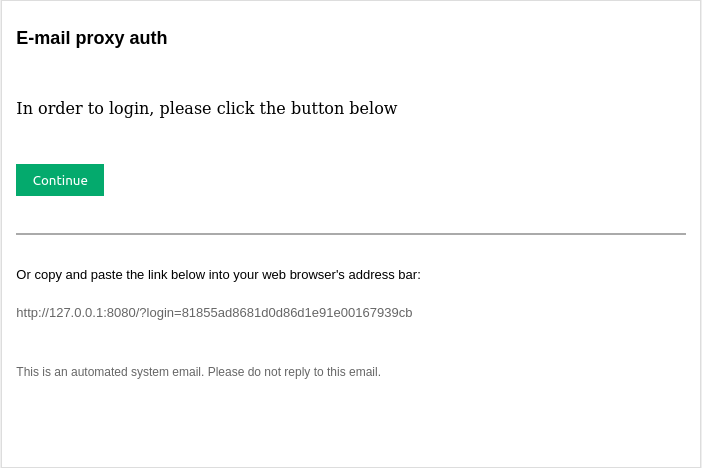
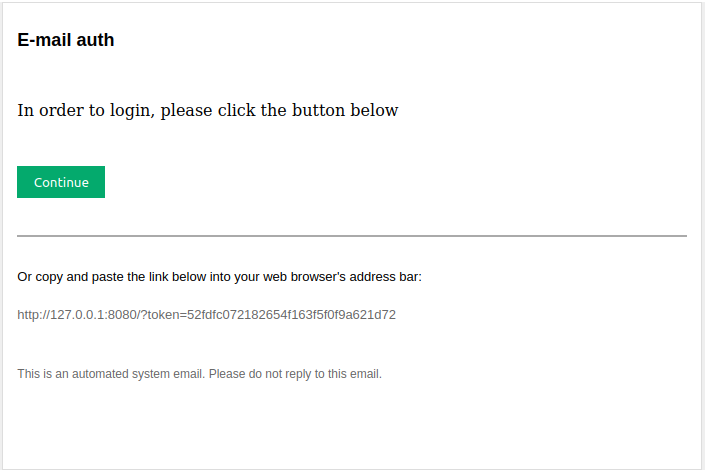
rename to email-auth.

diff --git a/cmd/root.go b/cmd/root.go
@@ -18,16 +18,16 @@ import (
 )
 
 // Default configuration path
-const defCfgPath = "/etc/email-proxy-auth/"
+const defCfgPath = "/etc/github.com/m1k1o/email-auth/"
 
 // ENV prefix for configuration
 const envPrefix = "CFG"
 
 var rootCmd = &cobra.Command{
-	Use:     "email-proxy-auth",
-	Short:   "Proxy authentication using email.",
-	Long:    `Proxy authentication using email.`,
-	Version: "0.0.1",
+	Use:     "email-auth",
+	Short:   "Authentication using email.",
+	Long:    `Authentication using email.`,
+	Version: "1.0.0",
 }
 
 var onInitialize []func()

diff --git a/internal/mail/email.go b/internal/mail/email.go
@@ -9,7 +9,7 @@ import (
 
 	"gopkg.in/mail.v2"
 
-	"email-proxy-auth/internal/config"
+	"github.com/m1k1o/email-auth/internal/config"
 )
 
 type Manager struct {
@@ -107,7 +107,7 @@ func Test(config config.Email, toEmail string) error {
 	m.SetHeader("To", toEmail)
 
 	// Set email subject
-	m.SetHeader("Subject", "Test email from email proxy auth")
+	m.SetHeader("Subject", "Test email from email-auth")
 
 	// Set email body
 	m.SetBody("text/plain", "If you see this in your inbox, that means the test was successful.")

diff --git a/internal/serve.go b/internal/serve.go
@@ -11,10 +11,10 @@ import (
 	"github.com/rs/zerolog"
 	"github.com/rs/zerolog/log"
 
-	"email-proxy-auth/internal/auth"
-	"email-proxy-auth/internal/config"
-	"email-proxy-auth/internal/mail"
-	"email-proxy-auth/internal/page"
+	"github.com/m1k1o/email-auth/internal/auth"
+	"github.com/m1k1o/email-auth/internal/config"
+	"github.com/m1k1o/email-auth/internal/mail"
+	"github.com/m1k1o/email-auth/internal/page"
 )
 
 type serve struct {

diff --git a/internal/config/config.go b/internal/config/config.go
@@ -70,7 +70,7 @@ func (c *App) CreateUrl(token, redirectTo string) (string, error) {
 }
 
 func (App) Init(cmd *cobra.Command) error {
-	cmd.PersistentFlags().String("app.name", "E-mail proxy auth", "Application Name.")
+	cmd.PersistentFlags().String("app.name", "E-mail auth", "Application Name.")
 	if err := viper.BindPFlag("app.name", cmd.PersistentFlags().Lookup("app.name")); err != nil {
 		return err
 	}

diff --git a/cmd/test.go b/cmd/test.go
@@ -4,8 +4,8 @@ import (
 	"github.com/rs/zerolog/log"
 	"github.com/spf13/cobra"
 
-	"email-proxy-auth/internal/config"
-	"email-proxy-auth/internal/mail"
+	"github.com/m1k1o/email-auth/internal/config"
+	"github.com/m1k1o/email-auth/internal/mail"
 )
 
 func init() {

diff --git a/cmd/serve.go b/cmd/serve.go
@@ -4,8 +4,8 @@ import (
 	"github.com/rs/zerolog/log"
 	"github.com/spf13/cobra"
 
-	"email-proxy-auth/internal"
-	"email-proxy-auth/internal/config"
+	"github.com/m1k1o/email-auth/internal"
+	"github.com/m1k1o/email-auth/internal/config"
 )
 
 func init() {

diff --git a/internal/auth/store_object.go b/internal/auth/store_object.go
@@ -1,9 +1,10 @@
 package auth
 
 import (
-	"email-proxy-auth/internal/config"
 	"sync"
 	"time"
+
+	"github.com/m1k1o/email-auth/internal/config"
 )
 
 type storeObject struct {

diff --git a/internal/auth/store_redis.go b/internal/auth/store_redis.go
@@ -7,7 +7,7 @@ import (
 
 	"github.com/go-redis/redis/v8"
 
-	"email-proxy-auth/internal/config"
+	"github.com/m1k1o/email-auth/internal/config"
 )
 
 type storeRedis struct {

diff --git a/internal/page/page.go b/internal/page/page.go
@@ -5,7 +5,7 @@ import (
 	"io/ioutil"
 	"net/http"
 
-	"email-proxy-auth/internal/config"
+	"github.com/m1k1o/email-auth/internal/config"
 
 	"github.com/rs/zerolog/log"
 )

diff --git a/internal/auth/store.go b/internal/auth/store.go
@@ -5,7 +5,7 @@ import (
 
 	"github.com/rs/zerolog/log"
 
-	"email-proxy-auth/internal/config"
+	"github.com/m1k1o/email-auth/internal/config"
 )
 
 var (

diff --git a/main.go b/main.go
@@ -1,6 +1,6 @@
 package main
 
-import "email-proxy-auth/cmd"
+import "github.com/m1k1o/email-auth/cmd"
 
 func main() {
 	_ = cmd.Execute()

diff --git a/README.md b/README.md
@@ -1,6 +1,6 @@
-# email proxy auth
+# email auth
 
-A simple passwordless proxy authentication middleware that uses only email as the authentication provider.
+A simple passwordless authentication middleware that uses only email as the authentication provider.
 
 ## Motivation
 
